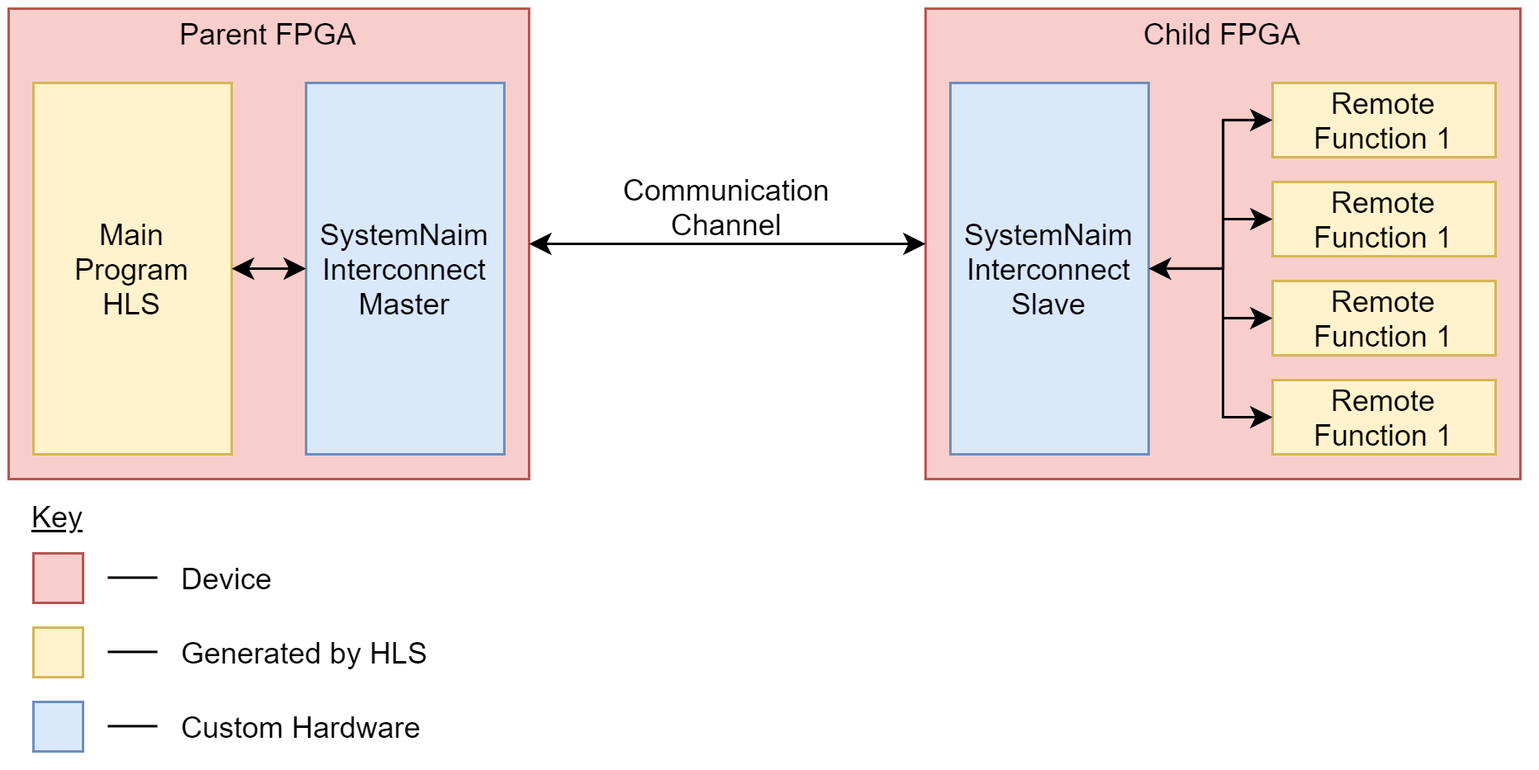
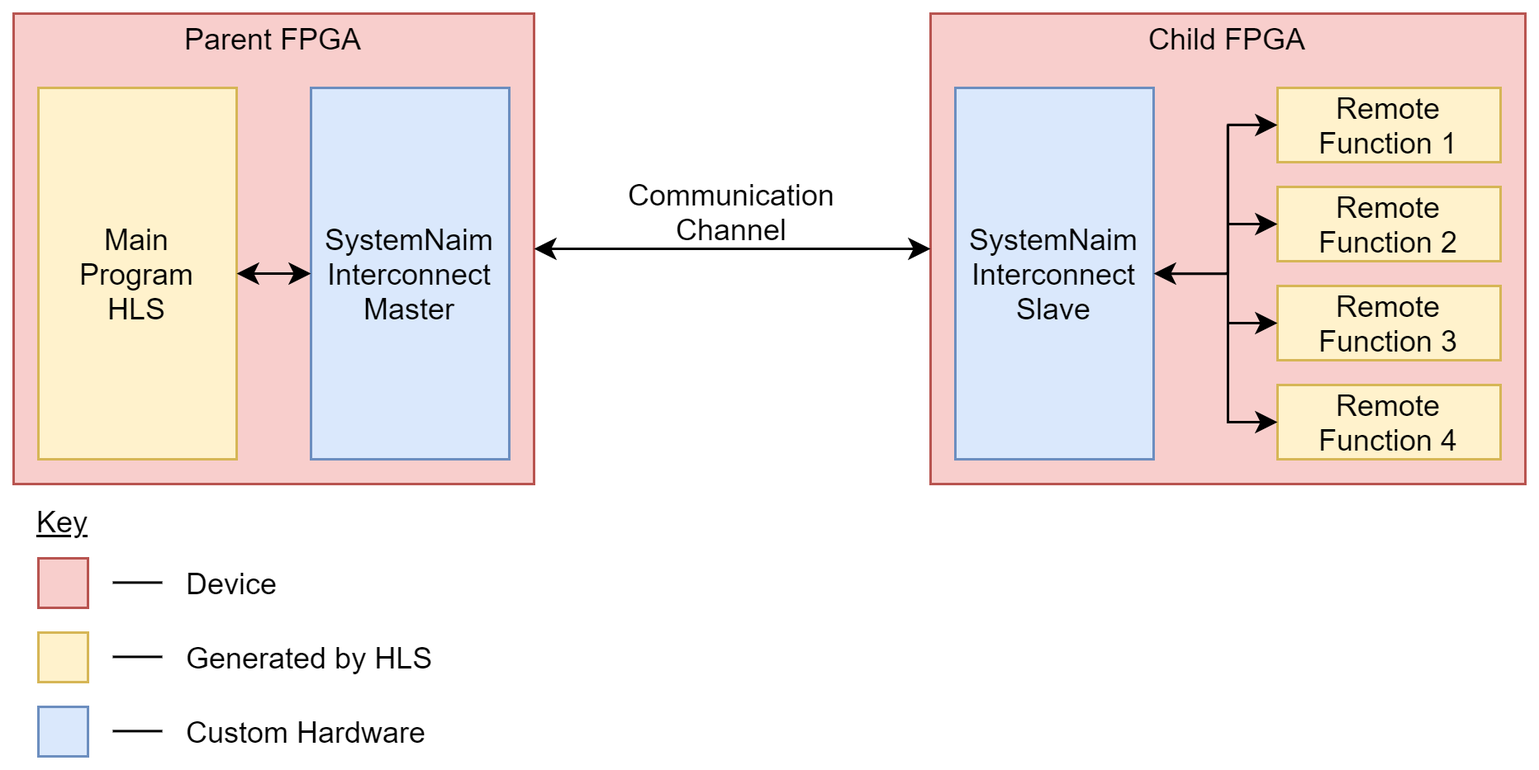
finished most of report

Changed region(s): [[0.0, 0.0, 0.9962, 0.9946]]

diff --git a/04_Implementation/index.tex b/04_Implementation/index.tex
@@ -8,23 +8,56 @@
 
 \section{The System as a Whole}
 
-In its current implementation SystemNaim is able to generate a 2-FPGA system, with one parent and one child FPGA. The parent FPGA contains the main parts of the program, and during operation it can make remote calls, similar to an RPC system, to the child FPGA. When the child FPGA receives a remote call it will begin execution and once complete it will pass the result back to the parent FPGA. 
+In its current implementation SystemNaim is able to generate a 2-FPGA system, with one parent and one child FPGA. The parent FPGA contains the main parts of the program, and during operation it can make remote calls, similar to an RPC system, to the child FPGA. The child FPGA contains off-chip functions, which are essentially hardware modules which perform the processing of one function, when the child FPGA receives a remote call it will begin execution and once complete it will pass the result back to the parent FPGA. \autoref{fig:full_sys} shows a high level diagram of what a multi-FPGA system generated by SystemNaim would look like, while \autoref{fig:indepth_full_sys} shows an in-depth view of the signals between every module in a multi-FPGA system.
+
+This following sections will cover the aspects of this system, and explore their current implementations.
+
+\begin{figure}[!h]
+    \centering
+    \includegraphics[width=0.9\textwidth]{04_Implementation/images/full_system.png}
+    \caption{Basic multi-FPGA system generated by SystemNaim}
+    \label{fig:full_sys}
+\end{figure}
+
+\begin{sidewaysfigure}
+    \centering
+    \includegraphics[width=\textwidth]{04_Implementation/images/FGPA_Interface_block_diagram.png}
+    \caption{Full multi-FPGA system generated by SystemNaim, with signal names}
+    \label{fig:indepth_full_sys}
+\end{sidewaysfigure}
+
 
 \section{HLS}
 
+The HLS part of SystemNaim is an ANSI C90 transpiler which targets Verilog. Since the focus of this investigation is not to create a fully features HLS tool, certain limitations have been placed on this aspect to reduce development time.
+
 \begin{itemize}
-    \item Talk about the line-to-state methodology used for the HLS. One line of code translates to one state in hardware, and that the resulting generated code is simply a giant state machine which goes from state to state until it's complete.
-    \item Talk about how each function translates to a module being instantiated in hardware. When the function call state is reached, the start signal for that module is asserted and the top level hardware waits until it's done signal is asserted.
-    \item These submodules are generated in the same way as the top level module, and they can have their own submodules which would correspond to function calls with that function.
-    \item Delve further into how the split and split\_fpga keywords work. The grammar has been modified and allows users to 'call' multiple modules at the same time.
-    \item In the 'split' case the start signal for multiple modules is asserted in the same state and then the system waits until all submodules finish execution.
-    \item The same thing happens in the \'split\_fpga\' case, multiple start signals are asserted and when all the submodules have asserted their done signal the system carries on execution. The difference however is that when using the split\_fpga construct, the first function call is not translated to a normal submodule instantiation in hardware, but rather a special submodule which connects to the interconnect hardware.
-    \item This special submodule, takes its inputs and an assigned opcode and passes it to the interconnect hardware which then initiates a remote function call. Once, the function is processed off-chip the interconnect receives the data passes it back to the special submodule. The special submodule then asserts its done signal alongside the data it received from the interconnect, and the main system continues operation.
-    \item This method means that the main system does not need to distinguish between submodules being processed on-chip or off-chip making the resultant hardware more straightforward.
-    \item Also talk about how the hardware for the second FPGA is generated.
+    \item \textbf{The input will be a single source file}. Multiple files require pre-processing and linking to be implemented and offer only convenience to the user.
+    \item \textbf{Only integer types will be allowed}. There is little difference between types in hardware except for the width of data, and thus a system that works with 32-bit values would likely work with 16-bit values, with the exception being floating point numbers. Regardless, having multiple types in a program makes very little difference when considering how it well it would perform on a multi-FPGA system and adding multiple types to the HLS would also require the addition of type checking. Thus, only 32-bit integers are allowed.
+    \item \textbf{No arrays are allowed}. While many programs use arrays, they are not necessary for the purposes of this investigation. Since we are trying to show that automating the creation of a multi-FPGA system is possible, without the addition of too much latency, we can emulate programs which would iterate over array by simply creating a for loop. The array accesses themselves aren't of much interest to us, and thus the HLS tool has no need to implement them.
 \end{itemize}
 
+As for the method by which we transpile, we have opted to go for a line-to-state methodology, where every line of code translates to a set of states in Verilog. When the program is fully transpiled, the resulting Verilog will be an FSM which sequentially goes through all the states created from the code until it reaches the end. Loops and If Statements will break the sequential nature of the FSM but allowing them to jump to predefined states was a straightforward implementation.
+
+Functions are implemented as their own Verilog modules. Each function call is equivalent to a module instantiation in Verilog, with the parent module being able to start the instantiated module at the appropriate time and then wait until the done signal is asserted, after which it can continue normal operation.
+
+Each module implements a NIOS custom instruction interface \cite{nios-ii-inst-guide} at the top level which allows for control over the module. A breakdown of this interface is shown in \autoref{fig:nios_instr}. This will also be used to run the user program in a NIOS II system.
+
+To further explain the implementation of this line-to-code methodology, we will go through a series of standard programming constructs which would be used in most user programs. We will also explore the two additional constructs that have been added to the grammar of the input language to allow for users to specify which functions to run in parallel and which to run off-chip/on the child FPGA.
+
+\begin{figure}[!h]
+    \centering
+    \includegraphics[width=0.4\textwidth]{04_Implementation/images/custom_instr_interface.png}
+    \caption{NIOS custom instruction slave interface}
+    \label{fig:nios_instr}
+\end{figure}
+
 \subsection{Variables}
+\label{sn:var_sections}
+
+Each variable in the user program is converted to two registers in the output HDL, as shown \autoref{sn:var}. The $var$\_next register is used in the combinational logic of the hardware if the value of $var$ needs to be changed, and at every positive edge of the clock cycle the $var$ register is set to the value $var$\_next register, \autoref{sn:var_update}. The $var$ register itself is used in the combinational logic if the value of $var$ is needed, such as in an arithmetic operation.
+
+The method of using a “next” register for assignments is a standard Verilog practice and ensures that we avoid cyclic combinational logic in the resulting hardware. 
 
 \begin{figure}[H]
 \centering
@@ -38,10 +71,11 @@ int x;
 \begin{subfigure}{0.25\textwidth}
     \begin{minted}{Verilog}
 reg [31:0] x;
+reg [31:0] x_next;
     \end{minted}
 \end{subfigure}
-\caption{Variable Update: Variable converted by SystemNaim.}
-\label{sn:var_update}
+\caption{Variable Instantiation: Variable converted by SystemNaim.}
+\label{sn:var}
 \end{figure}
 
 \begin{figure}[H]
@@ -68,11 +102,13 @@ else begin
 end
     \end{minted}
 \end{subfigure}
-\caption{Variable Instantiation: Variable converted by SystemNaim.}
-\label{sn:var}
+\caption{Variable Update: Variable converted by SystemNaim.}
+\label{sn:var_update}
 \end{figure}
 
 \subsection{Expressions}
+
+Expressions are mainly limited to arithmetic operations such as addition, subtraction, multiplication and division. Each of these operations within an expression is implemented as one state, therefore in cases such as \autoref{sn:expr}, only a single state is generated. However, when we there are multiple operations in an expression, as shown in \autoref{sn:expr_brackets}, temporary variables are generated to store the value of the intermediate calculations before completing the final assignment.
 
 \begin{figure}[H]
 \centering
@@ -116,12 +152,18 @@ assignment3: begin
 end
     \end{minted}
 \end{subfigure}
-\caption{Assignment expression, with brackets, converted by SystemNaim.}
+\caption{Assignment expression, with multiple operations, converted by SystemNaim.}
 \label{sn:expr_brackets}
 \end{figure}
 
 
 \subsection{For Loops}
+
+For loops generate four states, not including the states generated by the code inside the loop. The first state handles the initializer expression of the “for loop”, in the example shown in \autoref{sn:for} this would be the “assignment1” state, which performs the expression $i = 0$. The second state,“forCondExpr2”, assigns the result of the loop condition to a temporary variable which is then checked in the third state, “forBranch3”.
+
+In \autoref{sn:for_state}, we can see that when the program is in this state, the program will either stay in the loop, and go to the first state generated by the code within the loop, or exit the loop which results in the FSM jumping to state generated just after the “for loop”.
+
+The final state, “assignment4”, handles the increment expression in the “for loop”, which in this case just increments $i$ by one. The state logic also jumps to second state so that the condition can be re-evaluated.
 
 \begin{figure}[H]
 \centering
@@ -195,13 +237,15 @@ end
 
 \subsection{If Statement}
 
+An “if statement” in SystemNaim generates 2 states which are similar to the second and third state for a “for loop”. The first evaluates the condition, the second then jumps to the appropriate state. In the case of \autoref{sn:if_state}, if “cond0” was true the FSM would jump to the state which computed $y = 2$, whereas if the condition was false, it would instead compute $y = 3$. It should be noted that the code generated inside the true branch of the “if statement” does jump to the state generated after the “if statement” once its branch has finished processing, essentially the resulting hardware does exit the loop after the true branch has finished computation.
+
 \begin{figure}[H]
 \centering
 \begin{subfigure}{0.22\textwidth}
     \centering
     \begin{minted}{c}
 if (x > 4){
-    y  = 2;
+    y = 2;
 } else {
     y = 3;
 }
@@ -250,6 +294,13 @@ end
 \end{figure}
 
 \subsection{Function Calls}
+\label{sn:func_sec}
+
+Function calls need module instantiations and as such require extra HDL outside the state and combinational logic. \autoref{sn:func_call_mdl} shows an example instantiation in Verilog, the name of the module is the same as the function name, but the instance name is generated by the tool to allow for multiple instantiation of the same module. As can be seen the “done” and “d\_out” signals have generated wires so that the tool can read the values outputted by the module. The function arguments, “a” and “b”, the “start” port and an additional register to hold the result of the function have generated variables which connect to them. The variables follow the same rules specified in \autoref{sn:var_sections}.
+
+Function calls also add 2 states to the FSM, a function call and a function wait state. As in \autoref{sn:func_call_comb}, when in the function call state, the start signal for the appropriate module is asserted and the registers, which are connected to the input argument ports, are set to the required values. In the function wait state, the parent module waits for the “done” signal to be asserted at which point it captures the data on the “d\_out” wire and stores it in a generated register. This register is then used for any assignments or expression the function call was a part of.
+
+The state logic in \autoref{sn:func_call_state}, shows that when in the function wait state, the FSM waits for the “done” signal to be asserted so that it can move onto the next state, otherwise it stays in the same state.
 
 \begin{figure}[H]
 \centering
@@ -300,6 +351,9 @@ funcWait2: begin
     func_start0_next = 1'd0;
     func_outData1_next = func_done0 ? func_out0 : func_outData1;
 end
+assignment3: begin
+	x_next = func_outData1;
+end
     \end{minted}
 \end{subfigure}
 \caption{Combinational Logic: Function Call converted by SystemNaim}
@@ -323,6 +377,9 @@ end
 funcWait2: begin
     state <= func_done0 ? assignment3 : state;
 end
+assignment3: begin
+	state <= return5;
+end
     \end{minted}
 \end{subfigure}
 \caption{State Logic: Function Call converted by SystemNaim}
@@ -331,6 +388,15 @@ end
 
 \subsection{Multi-Function Calls}
 
+We can now explain the implementation for the constructs not found in original C90 grammar. The first construct allows users to call functions in parallel, and has more restrictions than a normal function call. The first is that all function calls that the user wished to run parallel must be contained within a “split” block, an example of which is shown in \autoref{sn:multi_func_call_mdl}. Each line in the “split” block must contain an assignment expression with only a function call on the right-hand side.
+
+The module instantiation for each function call follows the layout outlined in \autoref{sn:func_sec}, however, there is another example here to show that even if two modules have the same argument names, different register and wire names are generated for each one.
+
+The way in which the functions are called is also similar to the single function case, however, as shown in \autoref{sn:multi_func_call_state}, in the function call state, “splitCall2”, the start signals for both modules are asserted, and the input registers are set to the right value. You may notice that here we use another variable as an input argument, this is also possible for single function calls, we are just showcasing how it is implemented in this example. 
+
+The major difference lies in the addition of “done” register in addition to the “done” wire. This is due to the fact that done signals are only asserted for a single cycle, and thus we need a register to indicate if a module has completed execution in the past. Modules running in parallel may have different latencies so relying solely on the “done” wire would result in the FSM stalling in most cases. Once the “done” registers for every module are set to 1, the FSM can move onto the next state. The logic for this is shown in \autoref{sn:multi_func_call_state}.
+
+Once all functions have finished execution, the assignments are then processed.
 
 \begin{figure}[H]
 \centering
@@ -456,6 +522,13 @@ end
 
 \subsection{Remote Function Call}
 
+
+Finally, we can move onto the last construct we are going to discuss: the remote function call. The remote function call allows users to run hardware on the child FPGA in parallel with a function on the parent FPGA. This is done similarly to the multi-function call except the calls are contained within a “split\_fpga” block, like the code segment shown in \autoref{sn:rmt_func_call_mdl}. Currently, only two function calls can be placed inside a “split\_fpga” block, both must also be assignment expressions with a sole function call on the right-hand side. The first function call is the one that will be run off-chip. So in this example, “func\_a” would be placed on the child FPGA.
+
+When a function is run off-chip, the system produces to top files, the “host\_top” for the parent FPGA and and the “remote\_top” for the child FPGA. On the “host\_top” file, a different module is instantiated for the off-chip function which has the suffix “remote”(shown in \autoref{sn:rmt_func_call_mdl}). The module has the same inputs and outputs as the normal function module with the addition of signals which allow it to interface with the interconnect. The logic inside this module, instead of processing the function, initiates a remote function call by starting the interconnect module, this details of how a remote function call works will be explained later. Once the interconnect has been started the “remote\_module”, then waits for the “data\_from\_remote\_valid” signal to go high, at which point it grabs the data from the “data\_from\_remote" bus and then asserts it's “done” signal passing the data it received to the parent module. This means the FSM doesn't distinguish between a function run on-chip and a function which has been run on the child FPGA.
+
+In addition, to allow for multiple modules throughout the program to be run off-chip, a multiplexer is provided which is placed in-between the “remote\_modules” and the interconnect. Each module connects to its own set of ports on the multiplexer, as shown in \autoref{sn:rmt_func_call_mst_mux}, and when one of the “select\_in” signals is asserted, the multiplexer forwards to appropriate data to the interconnect. Once the interconnect returns data to the multiplexer, the multiplexer then passes the data back to the module whose “select\_in” signal was high. The value of the “opcode\_out” bus is dependent on which module initiated the multiplexer, if the module connected on the first set of ports asserted its “select\_in” then the opcode value would be 1. If the second module started the multiplexer then the value would be 2 and so on. This value is important as it's used by the hardware on the child FPGA to select which module to execute.
+
 \begin{figure}[H]
 \centering
 \begin{subfigure}{0.32\textwidth}
@@ -534,11 +607,15 @@ sysNaim_master_mux mux0(
 );
     \end{minted}
 \end{subfigure}
-\caption{SystemNaim Master Multiplexer: Remote Function Call converted by SystemNaim}
+\caption{SystemNaim Master Multiplexer: Remote Function Call converted by SystemNaim \\ \textit{Additional signals would be present if multiple functions were connected.}}
 \label{sn:rmt_func_call_mst_mux}
 \end{figure}
 
 \subsubsection{Child FPGA Hardware}
+
+Since a “remote\_top” module is now present, it is worth talking about the modules that have been instantiated in this file due to the remote function call. The slave interconnect is present alongside, a slave multiplexer which interfaces with the interconnect, and the module for the function that was called off-chip. In this case that would be “func\_a”.
+
+Shown in \autoref{sn:rmt_func_call_slv_mdl}, the “func\_a” module here contains all the state and combinational logic to compute the “func\_a” function in code. This module is controlled by the slave multiplexer, shown in \autoref{sn:rmt_func_call_slv_mux}. When the multiplexer receives data from the slave interconnect it means a remote function call has begun, and depending on the opcode received from the interconnect, the multiplexer then asserts the appropriate “start\_out” signal in order to initiate the correct module. Once the module has finished computation, it passes the result back to the multiplexer, which then passes it back to the interconnect to be sent back across the channel to the parent FPGA.
 
 \begin{figure}[H]
 \centering
@@ -571,7 +648,7 @@ sysNaim_slave_mux mux0(
 );
     \end{minted}
 \end{subfigure}
-\caption{SystemNaim Slave Multiplexer: Remote Function Call converted by SystemNaim \\ \textit{This module is instantiated on the child FPGA}}
+\caption{SystemNaim Slave Multiplexer: Remote Function Call converted by SystemNaim \\ \textit{This module is instantiated on the child FPGA. Additional signals would be present if multiple functions were connected.}}
 \label{sn:rmt_func_call_slv_mux}
 \end{figure}
 
@@ -607,18 +684,51 @@ func_a m1(
         
     
 
-\section{Inter-connect}
+\section{Interconnect}
+\label{sec:impl_interconnect}
 
-\begin{itemize}
-    \item The interconnect consists of 3 parts. A multiplexer which allows multiple modules from the main system to connect to the interconnect. A HLS facing module(Interconnect-A) which takes data from the multiplexer. And a channel facing module (Interconnect-B) which is used to interface with a communication IP core. The last two are connected to each other through a custom interface.
-    \item This section is relatively straightforward, Interconnect-A takes all the data it needs from the multiplexer in one cycle and then passes the opcode and two operands one transaction at a time. I.e. Interconnect-B transmits one piece of data and then when it's complete it grabs the next and transfers until all data is sent.
-    \item Once the data is sent the interconnect goes into 'return' mode, where Interconnect B waits for data to be returned on the channel. In the case of SPI this means it must constantly send data to the slave and read the return data (The slave can only send data once the master initiates a transaction). If the MSB of the return data is high the data is valid and Interconnect-B sends the data to Interconnect-A. The role of the interconnect is then done and the multiplexer sends the data back to the main system.
-    \item A similar setup exists on the 2nd FPGA, except with the roles slightly reversed. Interconnect-B waits for data to come on the channel which is then passed to Interconnect-A. Interconnect-A  stores the data until it has got an opcode and two operands. It then passes the data to a demultiplexer, which asserts the start signal of the appropriate submodule, depending on the opcode, and passes it the operands. The submodules in this hardware are generated in the same manner as a submodule on the main system, thus reducing complexity. Once, the submodule has completed computation data is passed back all the way to the main chip.
-\end{itemize}
+There are two interconnects in a multi-FPGA system generated by SystemNaim: the master interconnect, which is found on the parent FPGA, and the slave interconnect, which is found on the child FPGA. The responsibility of the master interconnect is to accept transactions from the master multiplexer, and send these transactions across the communication channel to the slave interconnect. The slave interconnect is designed to wait until it receives a transaction from the channel, at which point it passes this transaction onto the slave multiplexer which then initiates the off-chip function call.
+
+Once the off-chip function call is complete, the return data is given to the slave interconnect by the slave multiplexer, which then transmits the data back across the communication channel. The master interconnect, at this point, will have been waiting for some valid return data on the communication and once it receives the valid data it passes to the master multiplexer, thus completing the job of the interconnect.
+
+Each of these interconnects contains 2 sub-modules which allows for more modularity in the system, the interface between these two submodules and the modules themselves will be explored in the following sections.
+
+\subsection{Master Interconnect}
+
+Shown in \autoref{fig:master_interconnect}, the master interconnect consists of 2 sub-modules: the “instruction encoder” and the “SPI Master Handler”. The former is exposed to the master multiplexer while the latter connects to the Intel SPI Core(Master), which controls the communication channel. When the “encoder” receives a transaction, by the multiplexer asserting the “start” signal, it checks to see if the “ready” signal has been asserted by the “handler”, if so it then sequentially sends the values from the: “opcode”, “dataa” and “datab” busses across the “data” bus between itself and the “handler”. Once all three values have been sent over, the “encoder” asserts the “start\_return” signal which indicates to the “handler” to start waiting for valid data to be returned on the communication channel. When the “return\_valid” signal is asserted by the “handler”, the “encoder” then passes the data back to the multiplexer.
+
+The “SPI master handler” is designed to specifically interface the Intel SPI Core so that it can control the channel. It must first instruct the SPI core to transmit the data values passed to it by the “encoder”. Once the “start\_return” signal is asserted, the “handler” tells the SPI core to continuously poll for valid data from the child FPGA. The reason the master SPI core has to keeping polling the slave core is because the slave on an SPI channel cannot initiate transactions. When any transaction is started by the master SPI core on the parent FPGA, the slave SPI core starts simultaneously transmitting data stored in an internal register. At some point during operation, this internal register will contain the result of the off-chip function call, but that point cannot be determined beforehand and thus arises the need for continuous polling transactions, a diagram of this process is shown in \autoref{fig:interconnect_polling}.
+
+The “handler” knows when valid data has been returned from the child FPGA if the most significant bit of the data it received was set to 1, this does limit the size of the return data to 31 bits, however, most programs are unaffected by the limitation. Once it does detect valid data, it passes it back to the “encoder” by asserting the “return\_valid” signal, and presenting the data, without the MSB set to 1, on the “return\_data” bus. 
+
+\begin{figure}[!htb]
+    \centering
+    \includegraphics[width=0.9\textwidth]{05_evaluation/images/interconnect_polling.png}
+    \caption{Example of interconnect communication protocol in practice}
+    \label{fig:interconnect_polling}
+\end{figure}
+
+
+\begin{figure}[!h]
+    \centering
+    \includegraphics[width=0.9\textwidth]{04_Implementation/images/interconnect_block_diagram.png}
+    \caption{Block diagram of the SystemNaim master interconnect.}
+    \label{fig:master_interconnect}
+\end{figure}
+
+\subsection{Slave Interconnect}
+
+The slave interconnect performs a similar job to the master interconnect but with the roles slightly reversed. As show in \autoref{fig:slave_interconnect}, the slave interconnect contains an “SPI Slave Handler” and An “Instruction Decoder”, where the former connect to an Intel SPI Core(Slave) and the latter is connected to the slave multiplexer. In this interconnect, the “handler” keeps checking the SPI core to see if it has received any data if it has it then passes the data to the “decoder”. The “decoder” waits for data to be passed to it from the “handler”, and once it has received values for the: “opcode”, “dataa” and “datab”, it asserts “start\_return”, to tell the “handler” to now wait until the “decoder” provides valid return data from the off-chip function. The “decoder” then passes the received values to the slave multiplexer and waits until it is given some return data.
+
+Once the off-chip function is complete and the multiplexer has passed the data back to the “decoder”, the “decoder” then passes the data to the “handler”. The “handler” gives the data, with the MSB set to 1 to indicate valid data, to the Slave SPI Core to store in its internal register waiting for the parent FPGA to initiate a transaction. Thus, completing the role of the slave interconnect in the process of an off-chip function call.
+
+\begin{figure}[!h]
+    \centering
+    \includegraphics[width=0.9\textwidth]{04_Implementation/images/interconnect_slave.png}
+    \caption{Block diagram of the SystemNaim slave interconnect.}
+    \label{fig:slave_interconnect}
+\end{figure}
 
 \section{Communication Channel}
 
-\begin{itemize}
-    \item Small section, all that can be talked about is that the Avalon-MM interface protocol was used to control Intel's provided SPI Core.
-    \item Could talk about setbacks using Ethernet, and how the FPGA of choice had an HPS which meant the Ethernet port was not accessible through the FPGA pins.
-\end{itemize}
+The communication channel was not directly controlled by custom hardware. Instead, we opted to use Intel's SPI Core which was able to control the pins of the SPI Channel: MISO, MOSI, S\_CLK and SS\_EN, once given instructions through an Avalon-MM interface. Further information can be found in chapter 5 of \cite{intel-embedded-periph}. Most other communication protocols have similar IP core's made available by Intel, and thus all that would be required to use them, instead of an SPI channel, are new master and slave handler modules in both interconnects.

diff --git a/05_evaluation/index.tex b/05_evaluation/index.tex
@@ -1,11 +1,6 @@
 \chapter{Evaluation}
 
-\section{Introduction}
-
-\begin{itemize}
-    \item Talk about why the three sections below are being talked about
-\end{itemize}
-
+Evaluation is an important part of deciding whether SystemNaim achieved its aims \& goals. The following sections discuss: interconnect performance, program affinity and usability of SystemNaim, and attempt to gain insight into the issues or benefits produced by the tool.
 
 \section{Interconnect Performance}
 \label{sec:interconnect}
@@ -14,7 +9,7 @@ Calling a function implemented in hardware off-chip is not latency free. There w
 
 Since the decision was made to implement an SPI communication channel for the final product, we had to into consideration the SPI clock speed used by the system. On an SPI channel, a single bit is sent on every cycle of the SPI clock meaning it takes 32 SPI Clock cycles to send single 32-bit integer. Increasing the SPI Clock speed allows for a higher performing channel, which is able to send data in a shorter period, however, this increase comes at the cost of reliability. This section explores the effect of the SPI Clock rate on a test system. We will attempt to prove that increasing the clock speed does reduce the total overhead, but will also investigate the overhead added from the interconnect to the latency of the system.
 
-\subsection{Test Model}
+\subsection{Mathematical Model for Overhead Latency}
 
 In order to find out how much of the latency of a multi-FPGA system, created in SystemNaim, can be attributed to the interconnect, we must first devise a model that can tell us what data needs to be gathered. At it's most simple, we can model the latency of a system as the sum of the time taken to perform the actual processing i.e. the code that the user entered into the tool, and the time taken to encode, transmit, receive, and decode the data across the SPI channel i.e. the overhead. \autoref{eqn:tot_sys_latency}, shows the mathematical equivalent of the previous statement.
 
@@ -67,7 +62,7 @@ Given those results we prove that we can use the MTSC latency in the MTMC calcul
     \label{fig:multi_fpga_call}
 \end{figure}
 
-\subsection{Channel Bandwidth}
+\subsubsection{Channel Bandwidth}
  
 We can further dissect the overhead latency and split it into two parts. The transfer overhead, $L_{t\_overhead}$, which is latency cost incurred for transmitting and receiving data over a channel and the interconnect overhead, $L_{i\_overhead}$, which is the latency cost from encoding and decoding the data transmitted. Essentially, the latter part comes from the hardware designed specifically for SystemNaim, whereas the former is merely the limit of the channel. In an ideal world the interconnect overhead would be 0 and only the transfer overhead would exist. 
 
@@ -87,9 +82,9 @@ For SystemNaim, we know that any off-chip function call requires 128 bits of dat
     \label{eqn:overhead}
 \end{equation}
 
-\subsection{Testing}
+\subsection{Test model}
 
-With the maths and the modelling in place we can now being testing the system to see if we can get an experimental value for the overhead and how it is affected by the SPI clock speed. For this test we use a program which calls 2 function, which are syntactically the same, and then exits. We first compile the program with both functions being called within a “split” block and test the latency of this MTSC system. Afterwards we test the same program, but we replace the “split” keyword with the “split-fpga” keyword, this will be the MTMC system. 
+With the maths and the modelling in place we can now begin testing the system to see if we can get an experimental value for the overhead and how it is affected by the SPI clock speed. For this test we use a program which calls 2 function, which are syntactically the same, and then exits. We first compile the program with both functions being called within a “split” block and test the latency of this MTSC system. Afterwards we test the same program, but we replace the “split” keyword with the “split-fpga” keyword, this will be the MTMC system. 
 
 The MTMC system will be run multiple times with varying SPI clock speeds, and for each test we will compare the latencies between the MTMC and MTSC systems, compute the transfer overhead and find the interconnect overhead.
 
@@ -142,20 +137,11 @@ This instability may have been caused by the physical components of the channel 
 
 The more interesting result from the gathered data, however, comes from the trend of the \textbf{Interconnect Overhead}. While it would be expected that the latency from the interconnect would be generally static, with only minor fluctuations since the task of encoding data should be uniform, what we see instead is a generally decreasing trend except for a steep rise in latency at 312,500Hz. This behaviour, however, makes complete sense given the design of the interconnect and is a consequence of the SPI channel only allowing the master to initiate transactions. 
 
-As explained in SOME IMPLEMENTATION SECTION, the child FPGA cannot indicate to the parent FPGA when it has completed processing its off-chip function. Therefore, in order to receive the return data the parent FPGA must continuously send polling transactions on the SPI channel. When any transaction is started by the master SPI core on the parent FPGA, the slave SPI core starts simultaneously transmitting data stored in an internal register. At some point during operation, this internal register will contain the result of the off-chip function call, but that point cannot be determined beforehand and thus arises the need for continuous polling transactions, a diagram of this process is shown in \autoref{fig:interconnect_polling}. Because of this, when the off-chip function is complete, and it passes the result to the SPI slave core, the core must wait for the current polling transaction to finish before the next one starts, and then it can send the valid return data. Therein lies the issue, the wait for a current transaction to finish.
+As explained in \autoref{sec:impl_interconnect}, the child FPGA cannot indicate to the parent FPGA when it has completed processing its off-chip function. Therefore, in order to receive the return data the parent FPGA must continuously send polling transactions on the SPI channel. Because of this, when the off-chip function is complete, and it passes the result to the SPI slave core, the core must wait for the current polling transaction to finish before the next one starts, and then it can send the valid return data. Therein lies the issue, the wait for a current transaction to finish.
 
 The worst case for this scenario is if the slave SPI core has to wait for a full transaction, minus one cycle, to complete before it can send its data. At lower clock rates this can take thousands of cycles, more specifically $32 * L_channel$ cycles, since each transaction consists of 32 bits. Furthermore, how close the end time of an off-chip function is to the end of any given polling transaction is dependent on both the SPI clock speed and the latency of the function itself, therefore it becomes incredibly difficult to avoid the worse case scenario and the interconnect overhead becomes stochastic in nature. However, we can minimize the interconnect overhead by increasing the SPI clock speed, as this reduces the number of system cycles it takes for a polling transaction to finish and thus also the number of system cycles the slave SPI core has to wait in the worse case scenario.
 
 In conclusion, we should try to maximize the SPI clock speed as this reduces the transfer overhead, and minimizes the worst case for the interconnect overhead, thus, increasing the performance of the MTMC system.
-
-
-\begin{figure}[!htb]
-    \centering
-    \includegraphics[width=0.9\textwidth]{05_evaluation/images/interconnect_polling.png}
-    \caption{Example of interconnect communication protocol in practice}
-    \label{fig:interconnect_polling}
-\end{figure}
-
 
 \section{System Performance}
 \label{sec:sys_perf}
